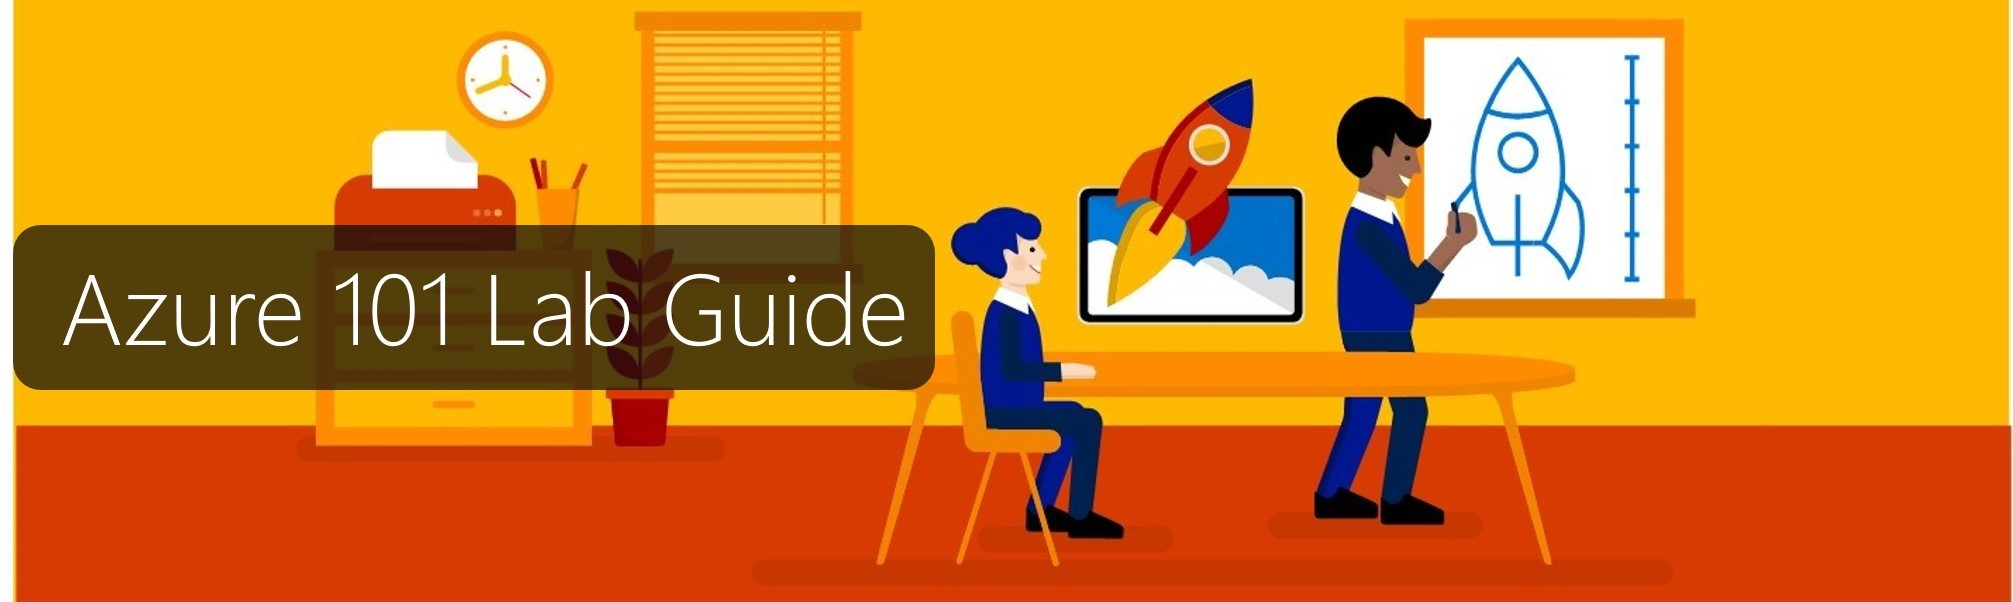
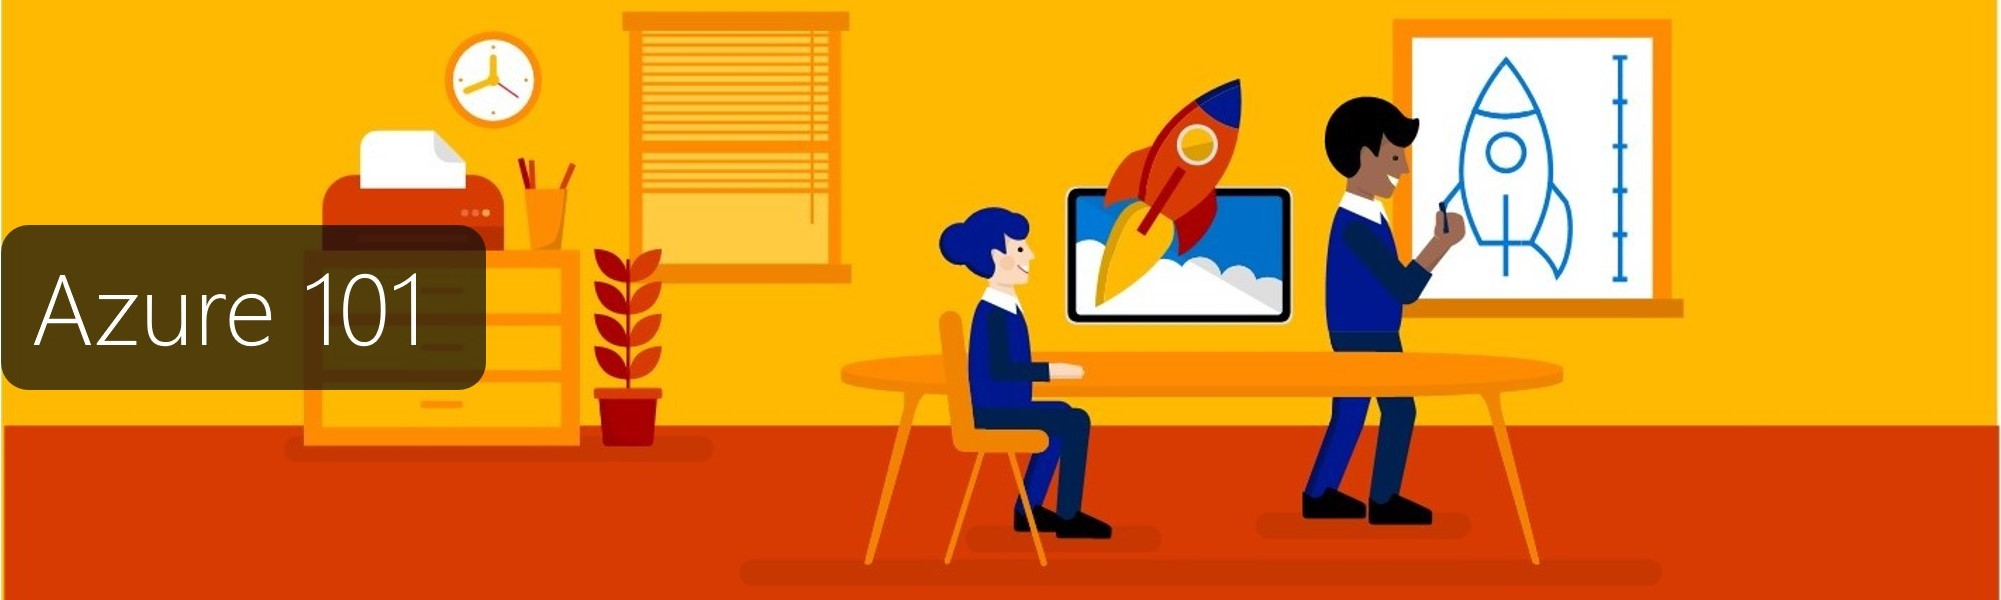
Updated image

Changed region(s): [[0.0, 0.0, 1.0, 1.0]]

diff --git a/_posts/2017-06-23-azure101.md b/_posts/2017-06-23-azure101.md
@@ -1,6 +1,6 @@
 ---
 layout: article
-title:
+title: Azure 101 Lab Guide
 date: 2017-06-23
 categories: workshops
 author: Richard_Cheney
@@ -10,7 +10,6 @@ image:
   thumb: 
 ---
 
-# Student Guide
 
 {% include toc.html %}
 
